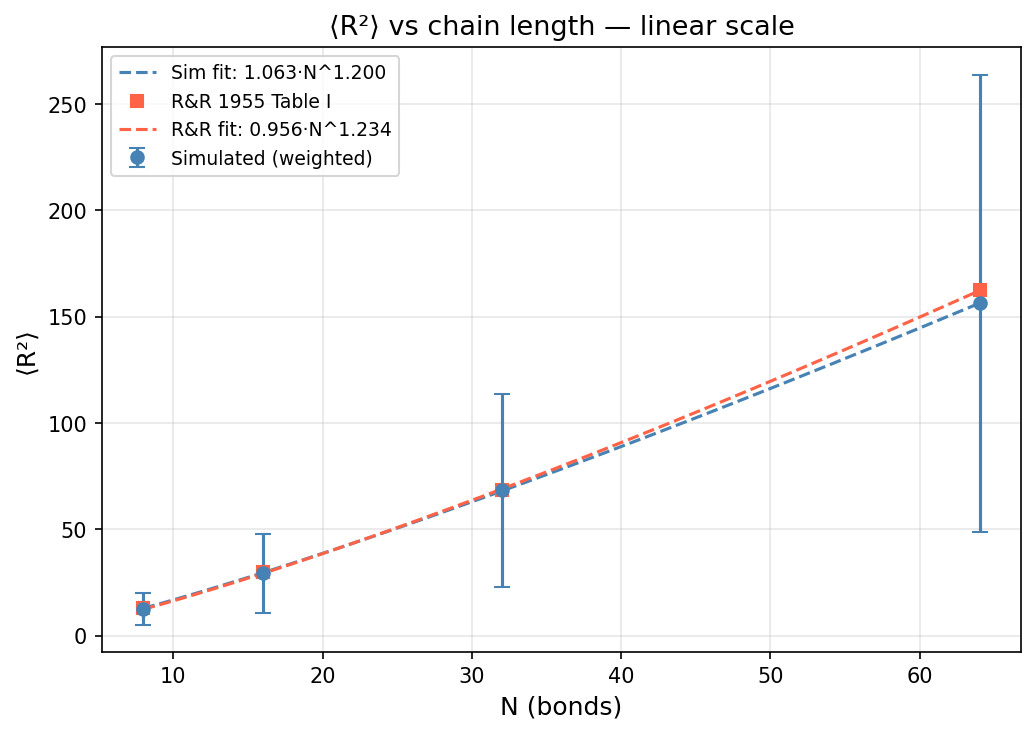
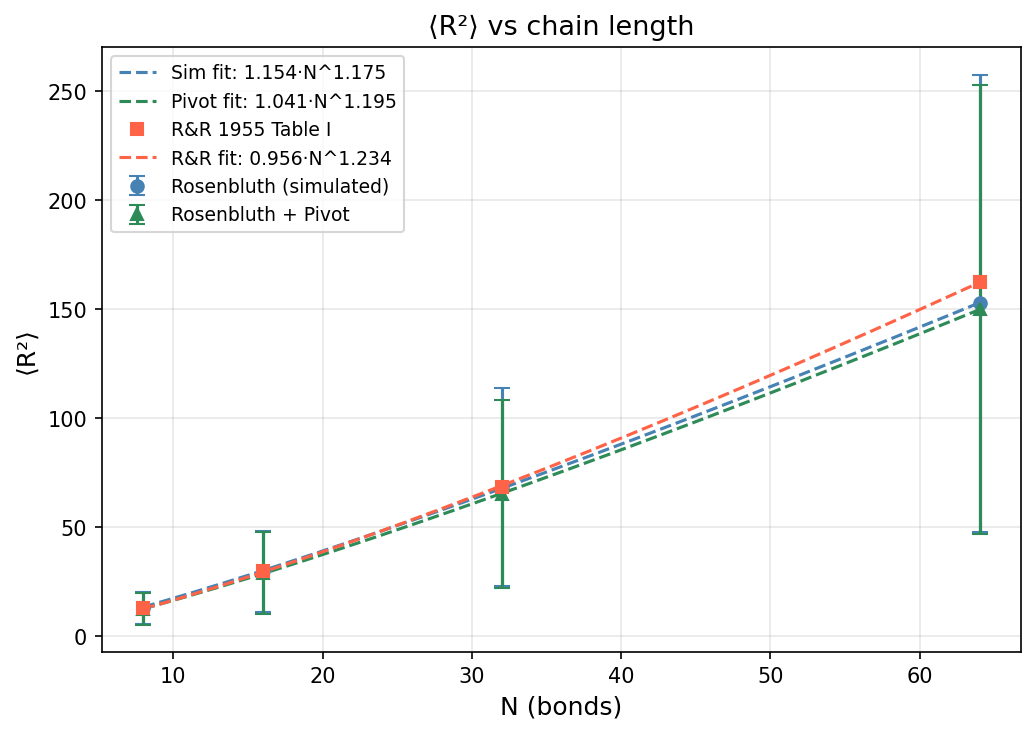
Adding pivot algorithm

diff --git a/mcmc_polymer/pivot_alg.py b/mcmc_polymer/pivot_alg.py
@@ -1,0 +1,201 @@
+"""Pivot algorithm sampler for lattice polymer chains."""
+
+import itertools
+import numpy as np
+from typing import List, Tuple
+
+
+def _build_cubic_symmetries() -> np.ndarray:
+    """
+    Generate all 48 elements of the cubic symmetry group Oh.
+
+    Each element is a 3×3 signed-permutation matrix: exactly one non-zero
+    entry per row and column, each ±1.  There are 3! permutations × 2³ sign
+    combinations = 48 matrices, all of which map the simple cubic lattice to
+    itself and have determinant ±1.
+    """
+    mats = []
+    for perm in itertools.permutations([0, 1, 2]):
+        for signs in itertools.product([-1, 1], repeat=3):
+            m = np.zeros((3, 3), dtype=float)
+            for row, (col, s) in enumerate(zip(perm, signs)):
+                m[row, col] = s
+            mats.append(m)
+    result = np.stack(mats)           # shape (48, 3, 3)
+    assert len(result) == 48
+    return result
+
+
+_CUBIC_SYMMETRIES = _build_cubic_symmetries()
+
+
+class PivotAlgorithm:
+    """
+    Pivot algorithm sampler for self-avoiding walks on the simple cubic lattice.
+
+    At each step a random monomer is chosen as the pivot point.  The chain
+    segment beyond the pivot is transformed by a random cubic-group symmetry
+    operation.  The move is accepted via a Metropolis criterion based on the
+    self-avoidance weight:  P_accept = min(1, w_new / w_old).
+
+    For a hard-core SAW the weight is 1 (self-avoiding) or 0 (overlaps), so
+    the criterion reduces to a simple accept/reject on self-avoidance.
+
+    Parameters
+    ----------
+    n_steps : int
+        Number of pivot moves to attempt per call to `run`.
+    beta : float
+        Inverse temperature used in the soft-core weight
+        w = exp(-beta * n_overlaps).  Use a very large value to approximate
+        the hard-core limit.
+    """
+
+    def __init__(self, n_steps: int = 100, beta: float = np.inf):
+        self.n_steps = n_steps
+        self.beta    = beta
+
+    # ── public interface ──────────────────────────────────────────────────────
+
+    def run(self, chain: np.ndarray) -> Tuple[np.ndarray, List[np.ndarray]]:
+        """
+        Apply `n_steps` pivot moves starting from *chain*.
+
+        Parameters
+        ----------
+        chain : ndarray, shape (n_monomers, 3)
+            Starting lattice configuration (integer coordinates).
+
+        Returns
+        -------
+        final_chain : ndarray, shape (n_monomers, 3)
+            Configuration after all accepted moves.
+        trajectory : list of ndarray
+            Chain state after every attempted step (accepted or not).
+        """
+        current    = chain.copy()
+        w_current  = self._compute_weight(current)
+        trajectory = []
+        n_accepted = 0
+
+        for _ in range(self.n_steps):
+            pivot_idx, operation = self._select_pivot_and_operation(current)
+            candidate = self._apply_pivot(current, pivot_idx, operation)
+            w_candidate = self._compute_weight(candidate)
+
+            # Metropolis acceptance: min(1, w_new / w_old)
+            if w_current == 0 or (w_candidate / w_current) >= np.random.rand():
+                current   = candidate
+                w_current = w_candidate
+                n_accepted += 1
+
+            trajectory.append(current.copy())
+
+        return current, trajectory
+
+    # ── step sub-functions (placeholders) ────────────────────────────────────
+
+    def _select_pivot_and_operation(
+        self, chain: np.ndarray
+    ) -> Tuple[int, np.ndarray]:
+        """
+        Choose a random pivot monomer index and a random cubic symmetry operation.
+
+        Returns
+        -------
+        pivot_idx : int
+            Index of the pivot monomer (1 … n_monomers-2 so both segments
+            are non-empty).
+        operation : ndarray, shape (3, 3)
+            Rotation/reflection matrix from the cubic symmetry group.
+        """
+        # TODO: implement pivot selection strategy (e.g. bias toward centre)
+        pivot_idx = self._pick_pivot(chain)
+        operation = self._pick_symmetry()
+        return pivot_idx, operation
+
+    def _pick_pivot(self, chain: np.ndarray) -> int:
+        """Return a uniformly random pivot index in [1, n_monomers-2]."""
+        # TODO: placeholder — uniform random choice
+        n = len(chain)
+        return int(np.random.randint(1, n - 1))
+
+    def _pick_symmetry(self) -> np.ndarray:
+        """Return a uniformly random element of the cubic symmetry group."""
+        # TODO: placeholder — sample from _CUBIC_SYMMETRIES
+        idx = np.random.randint(len(_CUBIC_SYMMETRIES))
+        return _CUBIC_SYMMETRIES[idx]
+
+    def _apply_pivot(
+        self, chain: np.ndarray, pivot_idx: int, operation: np.ndarray
+    ) -> np.ndarray:
+        """
+        Apply *operation* to the chain segment after *pivot_idx*.
+
+        The segment [pivot_idx+1 :] is rotated/reflected about the pivot
+        monomer's coordinates.
+
+        Parameters
+        ----------
+        chain : ndarray, shape (n_monomers, 3)
+        pivot_idx : int
+        operation : ndarray, shape (3, 3)
+
+        Returns
+        -------
+        new_chain : ndarray, shape (n_monomers, 3)
+        """
+        # TODO: placeholder — translate to pivot origin, apply matrix, translate back
+        new_chain = chain.copy()
+        pivot_pos = chain[pivot_idx]
+        segment   = chain[pivot_idx + 1:] - pivot_pos
+        new_chain[pivot_idx + 1:] = (operation @ segment.T).T + pivot_pos
+        return new_chain
+
+    def _compute_weight(self, chain: np.ndarray) -> float:
+        """
+        Compute the self-avoidance weight of *chain*.
+
+        For beta=inf (hard-core SAW): weight = 1 if self-avoiding, else 0.
+        For finite beta (soft-core):  weight = exp(-beta * n_overlaps).
+
+        Parameters
+        ----------
+        chain : ndarray, shape (n_monomers, 3)
+
+        Returns
+        -------
+        float
+        """
+        # TODO: placeholder — extend with additional energy terms if needed
+        n_overlaps = self._count_overlaps(chain)
+        if np.isinf(self.beta):
+            return 0.0 if n_overlaps > 0 else 1.0
+        return float(np.exp(-self.beta * n_overlaps))
+
+    def _count_overlaps(self, chain: np.ndarray) -> int:
+        """
+        Count the number of pairs of monomers sharing the same lattice site.
+
+        Returns
+        -------
+        int : 0 means fully self-avoiding.
+        """
+        # TODO: placeholder — O(N) set approach; replace with faster method for large N
+        sites = list(map(tuple, chain.astype(int)))
+        return len(sites) - len(set(sites))
+
+    def _is_self_avoiding(self, chain: np.ndarray) -> bool:
+        """Return True if *chain* has no overlapping monomers."""
+        return self._count_overlaps(chain) == 0
+
+    def _compute_end_to_end_sq(self, chain: np.ndarray) -> float:
+        """Return the squared end-to-end distance |r_N - r_0|²."""
+        # TODO: placeholder
+        return float(np.sum((chain[-1] - chain[0]) ** 2))
+
+    def _compute_radius_of_gyration_sq(self, chain: np.ndarray) -> float:
+        """Return the radius of gyration squared Rg² = mean |r_i - r_cm|²."""
+        # TODO: placeholder
+        r_cm = chain.mean(axis=0)
+        return float(np.mean(np.sum((chain - r_cm) ** 2, axis=1)))

diff --git a/mcmc_polymer/__init__.py b/mcmc_polymer/__init__.py
@@ -5,5 +5,6 @@ __version__ = "0.1.0"
 from .rosenbluth import RosenbluthMCMC
 from .polymer import PolymerChain
 from .lattice_rosenbluth import LatticeRosenbluthMCMC
+from .pivot_alg import PivotAlgorithm
 
-__all__ = ["RosenbluthMCMC", "PolymerChain", "LatticeRosenbluthMCMC"]
+__all__ = ["RosenbluthMCMC", "PolymerChain", "LatticeRosenbluthMCMC", "PivotAlgorithm"]